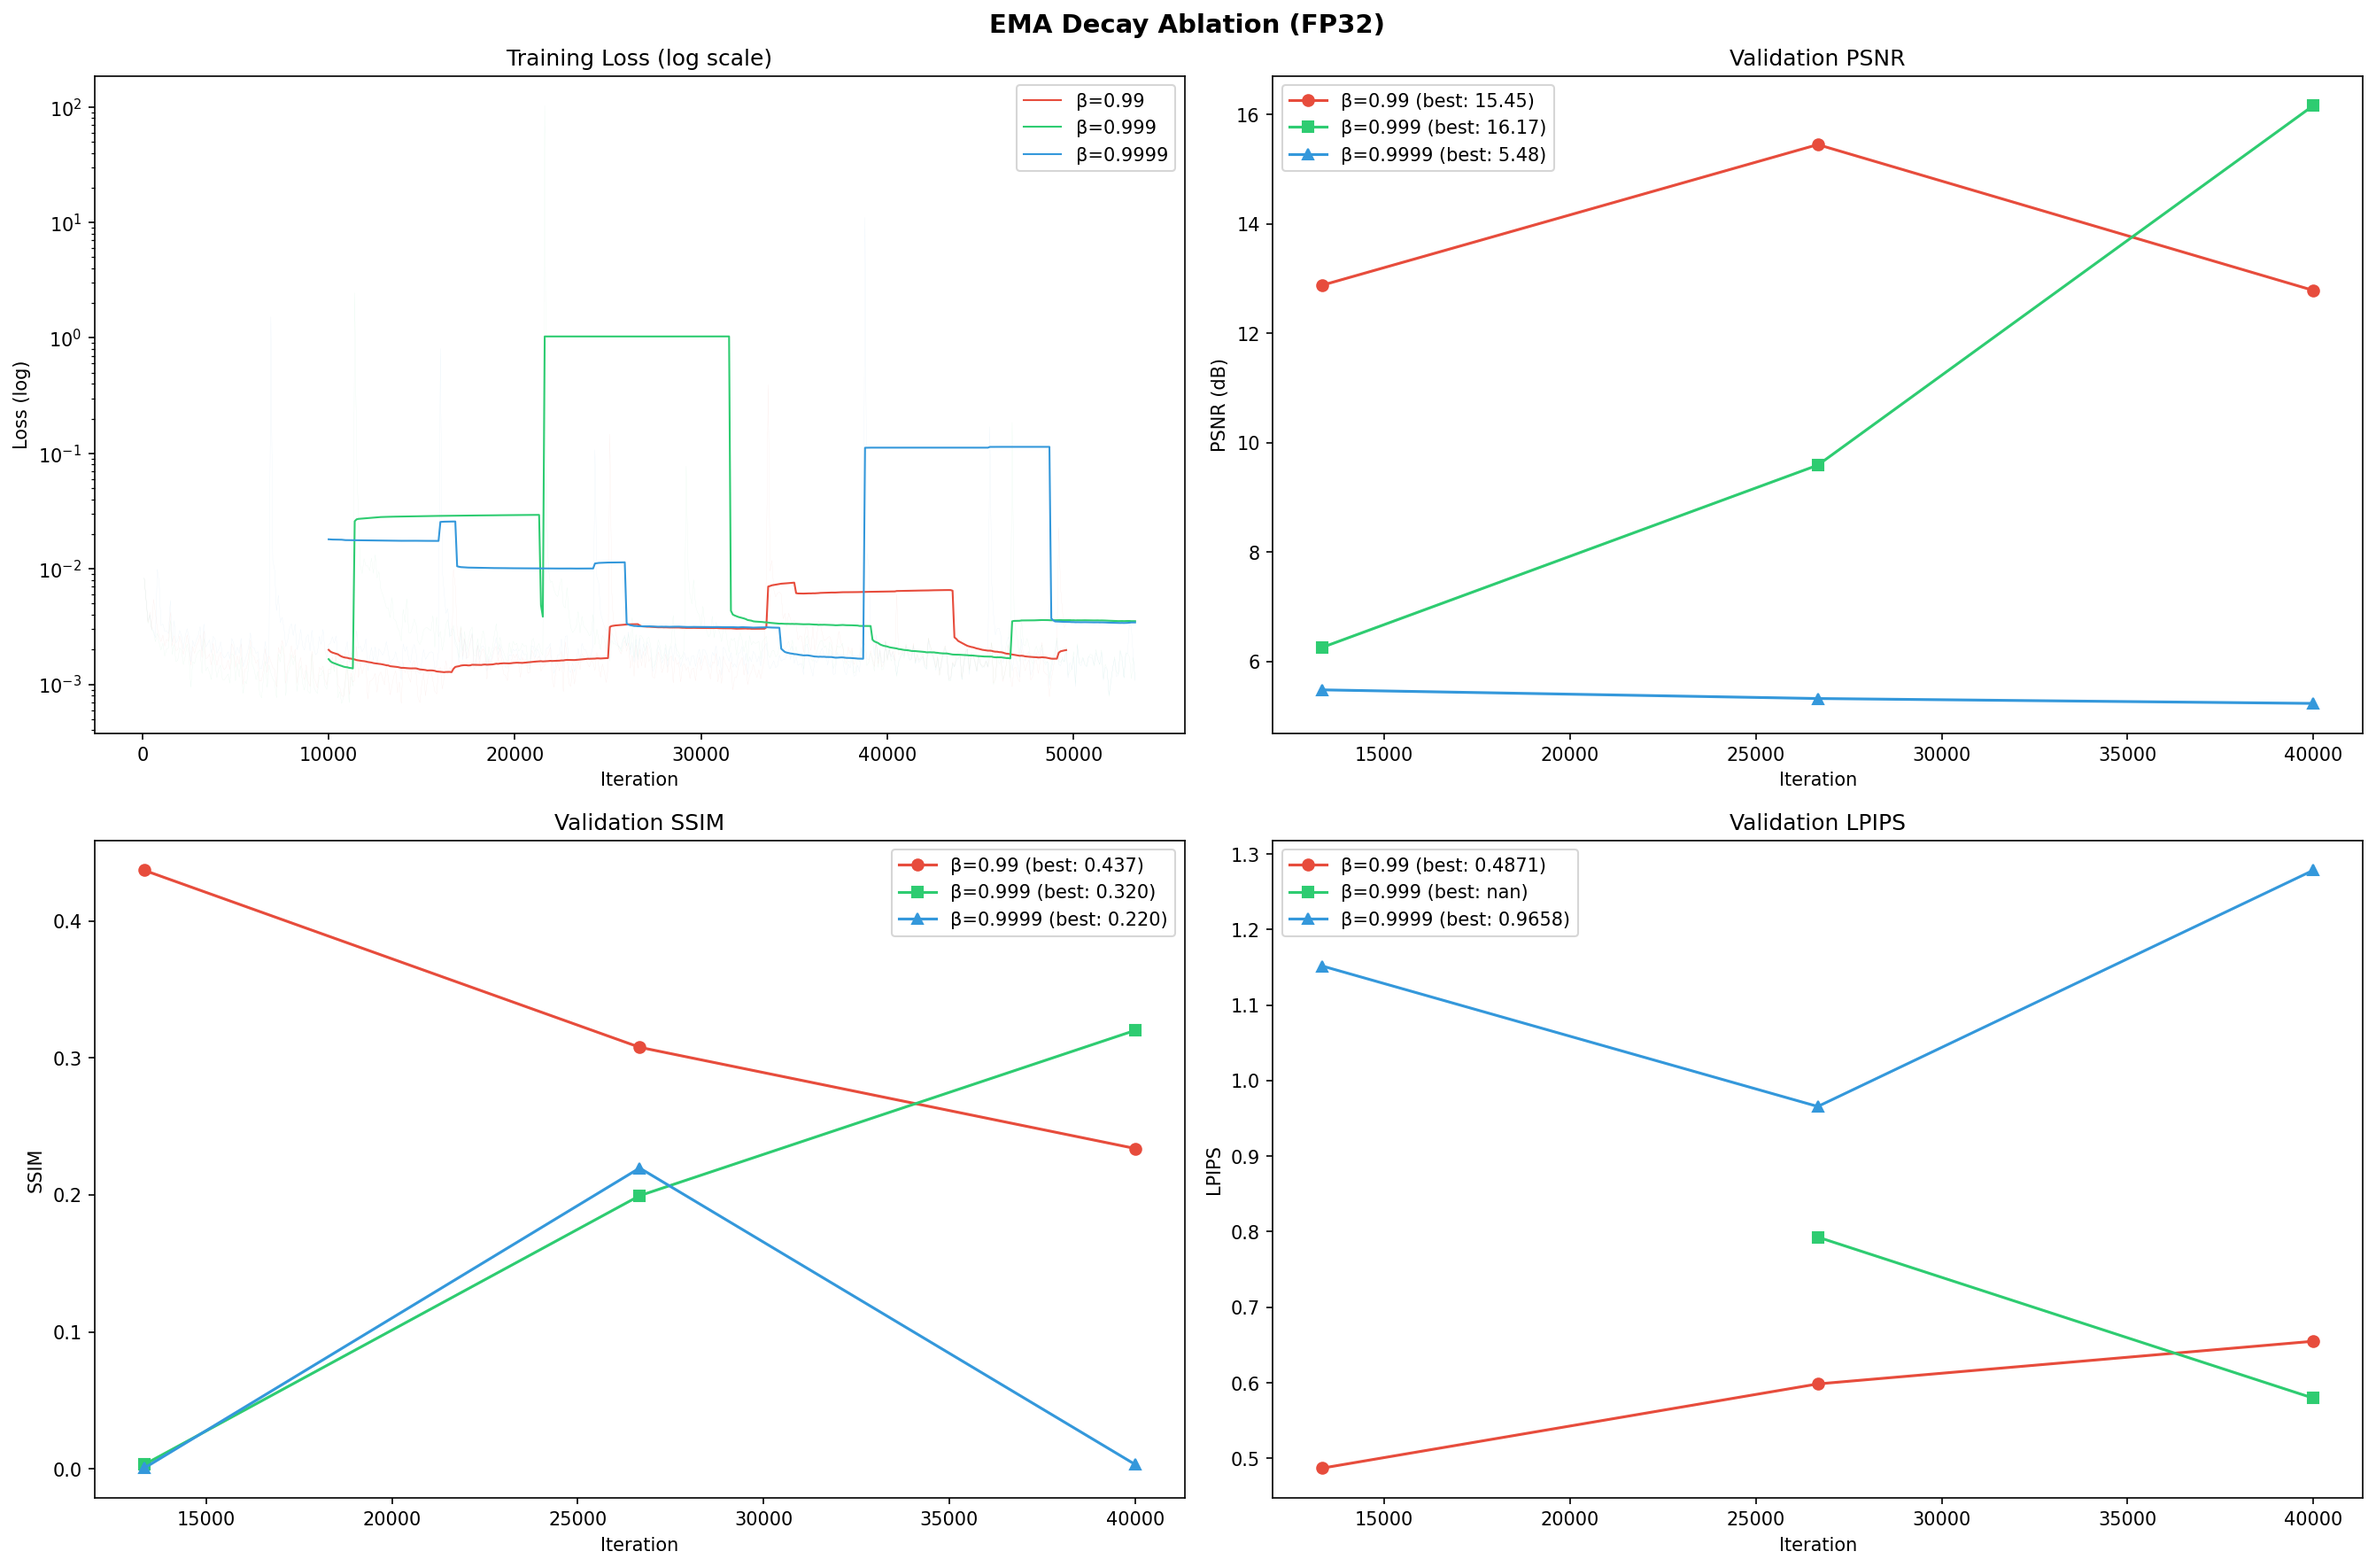
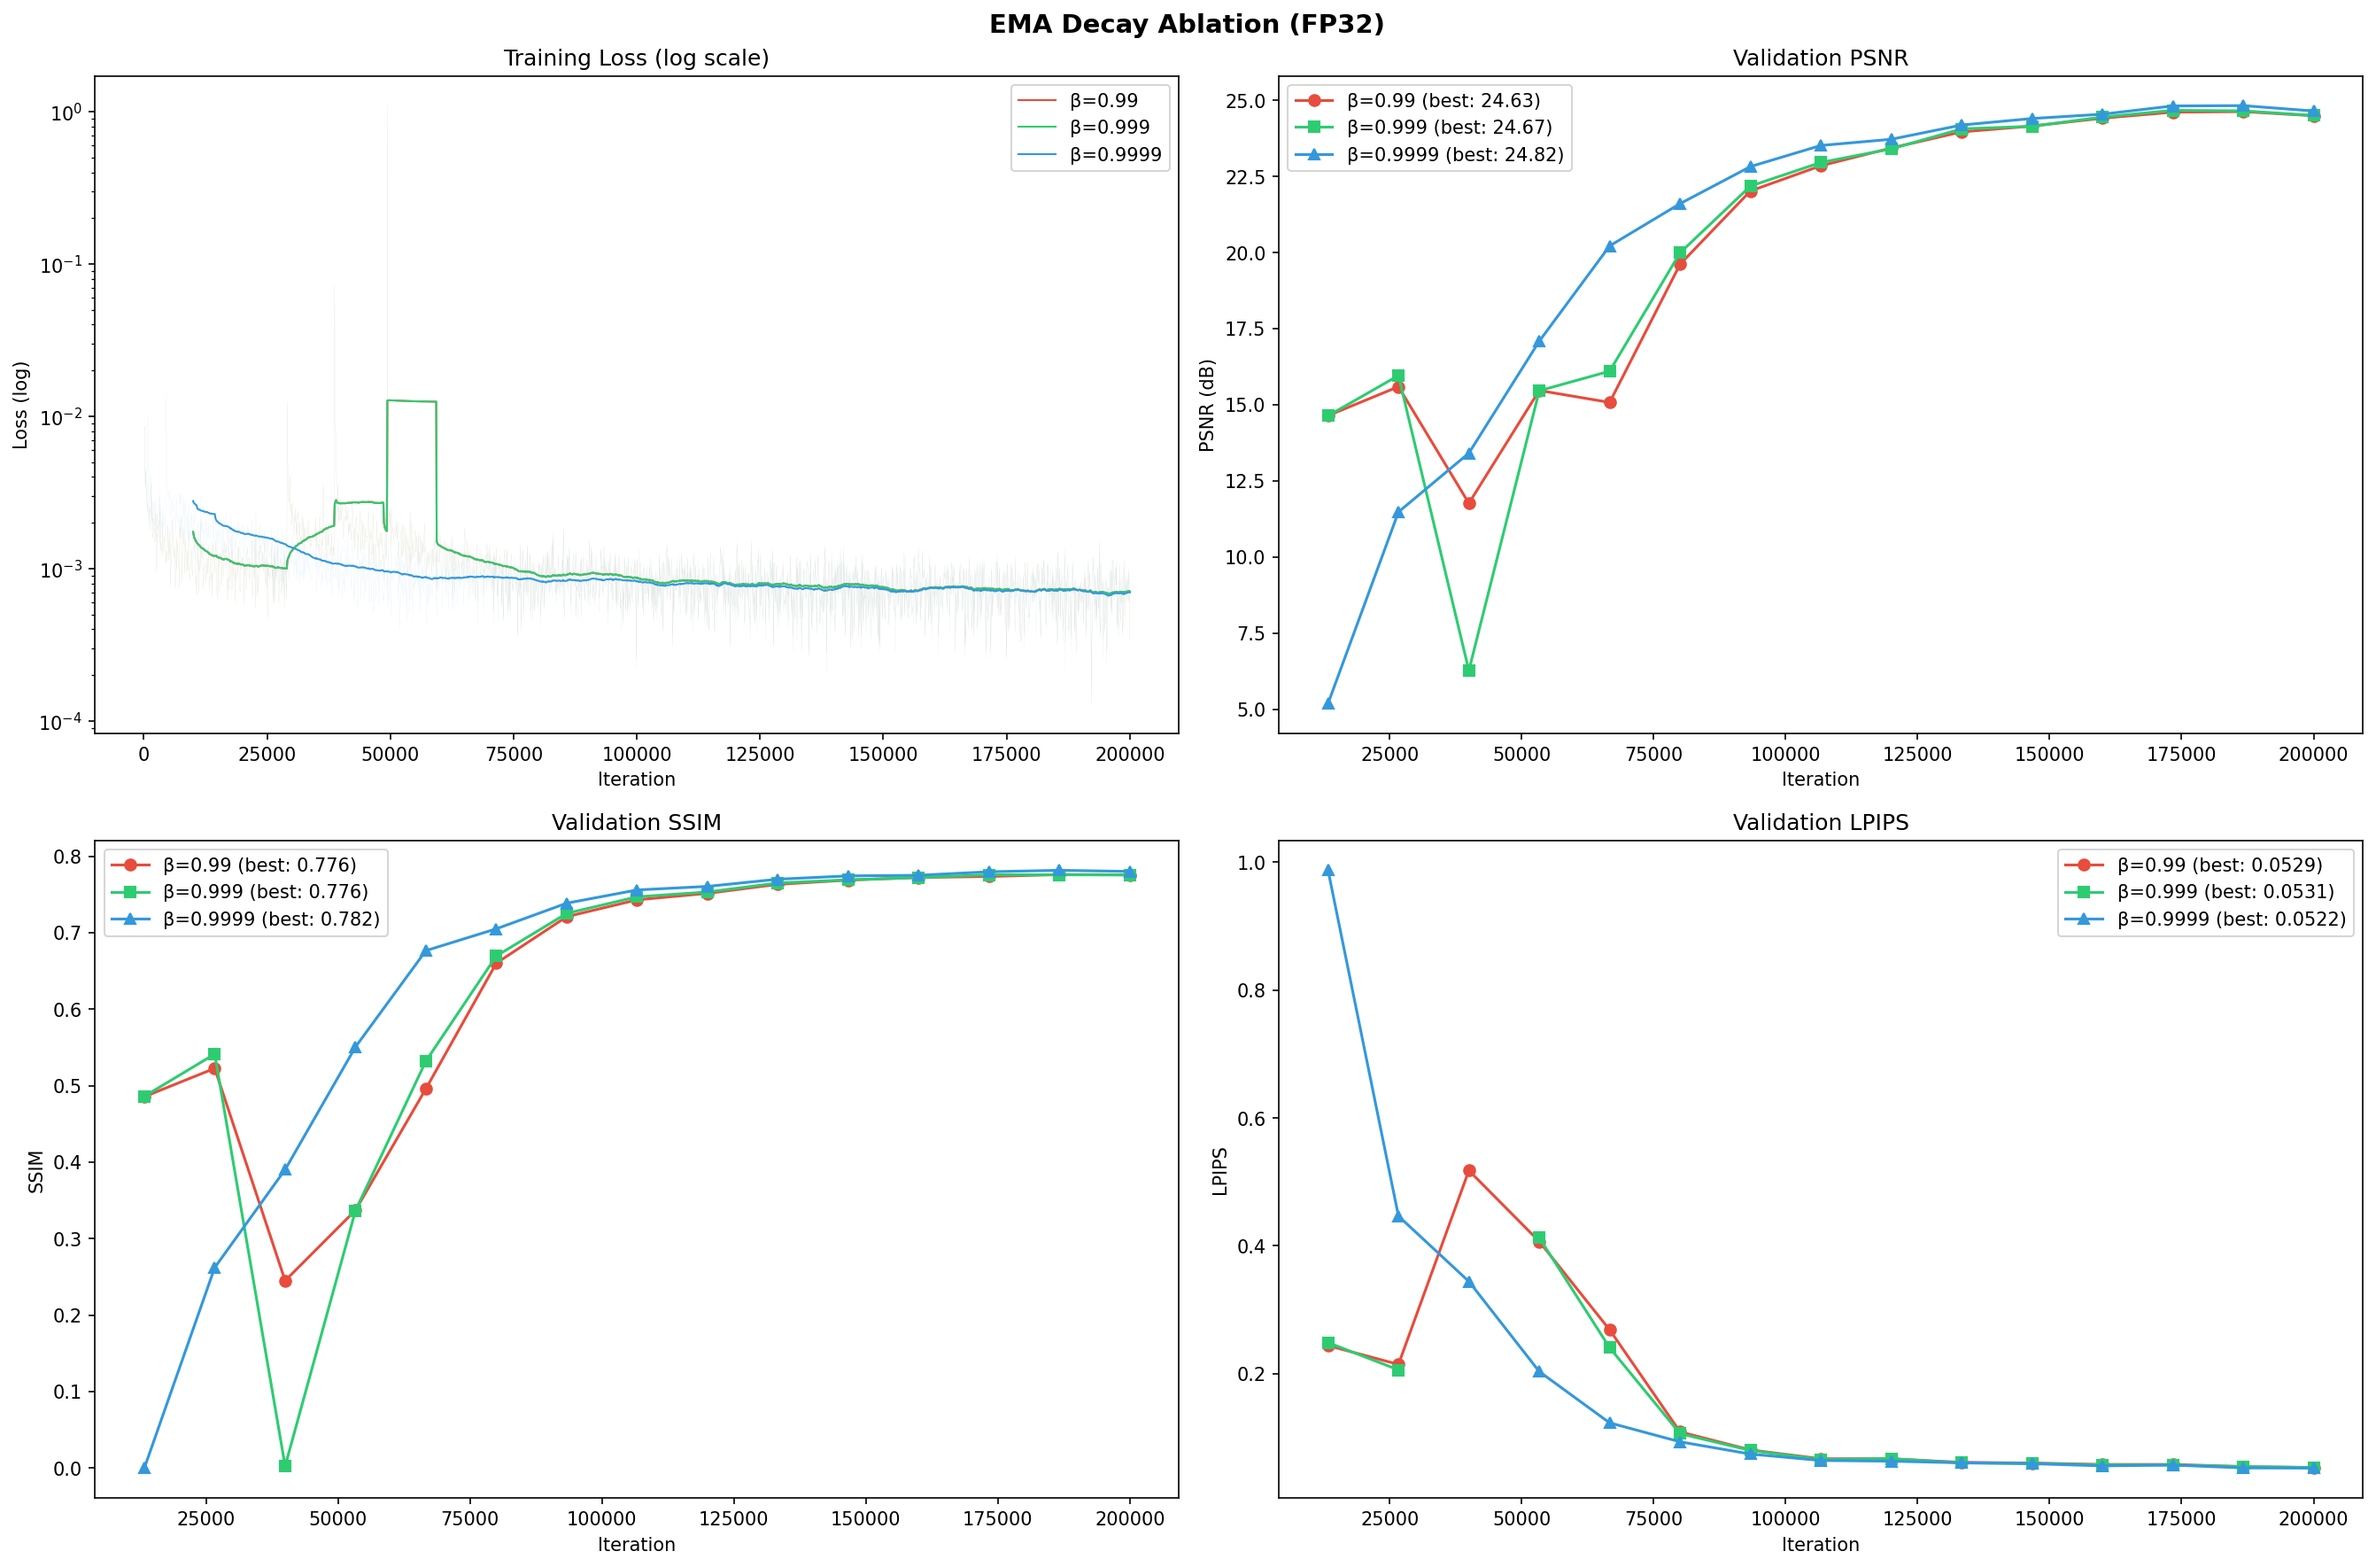
init

diff --git a/tasks/deraining/train.py b/tasks/deraining/train.py
@@ -34,6 +34,8 @@ def parse_args():
     parser.add_argument("--data_root", type=str, default="")
     parser.add_argument("--no_amp", action="store_true", help="Disable AMP (use FP32)")
     parser.add_argument("--resume", action="store_true", help="Resume from last checkpoint")
+    parser.add_argument("--cudnn_deterministic", action="store_true",
+                        help="Enable deterministic cuDNN (benchmark=False, deterministic=True)")
     return parser.parse_args()
 
 
@@ -50,6 +52,7 @@ def main():
         config.sde.num_steps_sampling = args.num_steps_sampling
         config.train.num_val = args.num_val
         config.train.ema_beta = args.ema_beta
+        config.train.cudnn_deterministic = args.cudnn_deterministic
     else:
         config = ExperimentConfig(exp_name=args.exp_name)
         config.sde.sde_type = args.sde_type
@@ -61,6 +64,7 @@ def main():
         config.train.gpu = args.gpu
         config.train.ema_beta = args.ema_beta
         config.train.seed = args.seed
+        config.train.cudnn_deterministic = args.cudnn_deterministic
         config.sde.num_steps_sampling = args.num_steps_sampling
         config.train.num_val = args.num_val
         config.data.dataset = args.dataset

diff --git a/src/trainer.py b/src/trainer.py
@@ -55,6 +55,10 @@ class Trainer:
 
         set_seed(config.train.seed)
 
+        if config.train.cudnn_deterministic:
+            torch.backends.cudnn.benchmark = False
+            torch.backends.cudnn.deterministic = True
+
         # Output directories
         if self.is_main:
             os.makedirs(config.log_dir, exist_ok=True)

diff --git a/src/config.py b/src/config.py
@@ -52,6 +52,7 @@ class TrainConfig:
     num_val: int = 15
     log_every: int = 100
     loss_type: str = "l1"
+    cudnn_deterministic: bool = False
 
 
 @dataclass

diff --git a/tasks/deraining/cudnn_deterministic_ablation/README.md b/tasks/deraining/cudnn_deterministic_ablation/README.md
@@ -1,0 +1,29 @@
+# cuDNN Deterministic Ablation (FP32)
+
+对比 `torch.backends.cudnn.benchmark = True`（默认，性能优化）与 `benchmark=False, deterministic=True`（可复现）对 GOUB (linear schedule) 去雨效果的影响。
+
+两组均使用 ema=0.999, FP32 精度。
+
+## 参数
+
+| 参数 | 值 |
+|------|-----|
+| SDE | GOUB (schedule=linear) |
+| EMA β | 0.999 |
+| 精度 | FP32 (AMP disabled) |
+| 迭代 | 200,000 |
+
+## 启动
+
+```bash
+# 默认（benchmark=True）
+bash tasks/deraining/cudnn_deterministic_ablation/scripts/run_default.sh
+
+# 确定性模式（benchmark=False, deterministic=True）
+bash tasks/deraining/cudnn_deterministic_ablation/scripts/run_deterministic.sh
+```
+
+## 观察
+
+- 训练 loss 曲线和验证 PSNR/SSIM/LPIPS 是否一致
+- step_time 差异
